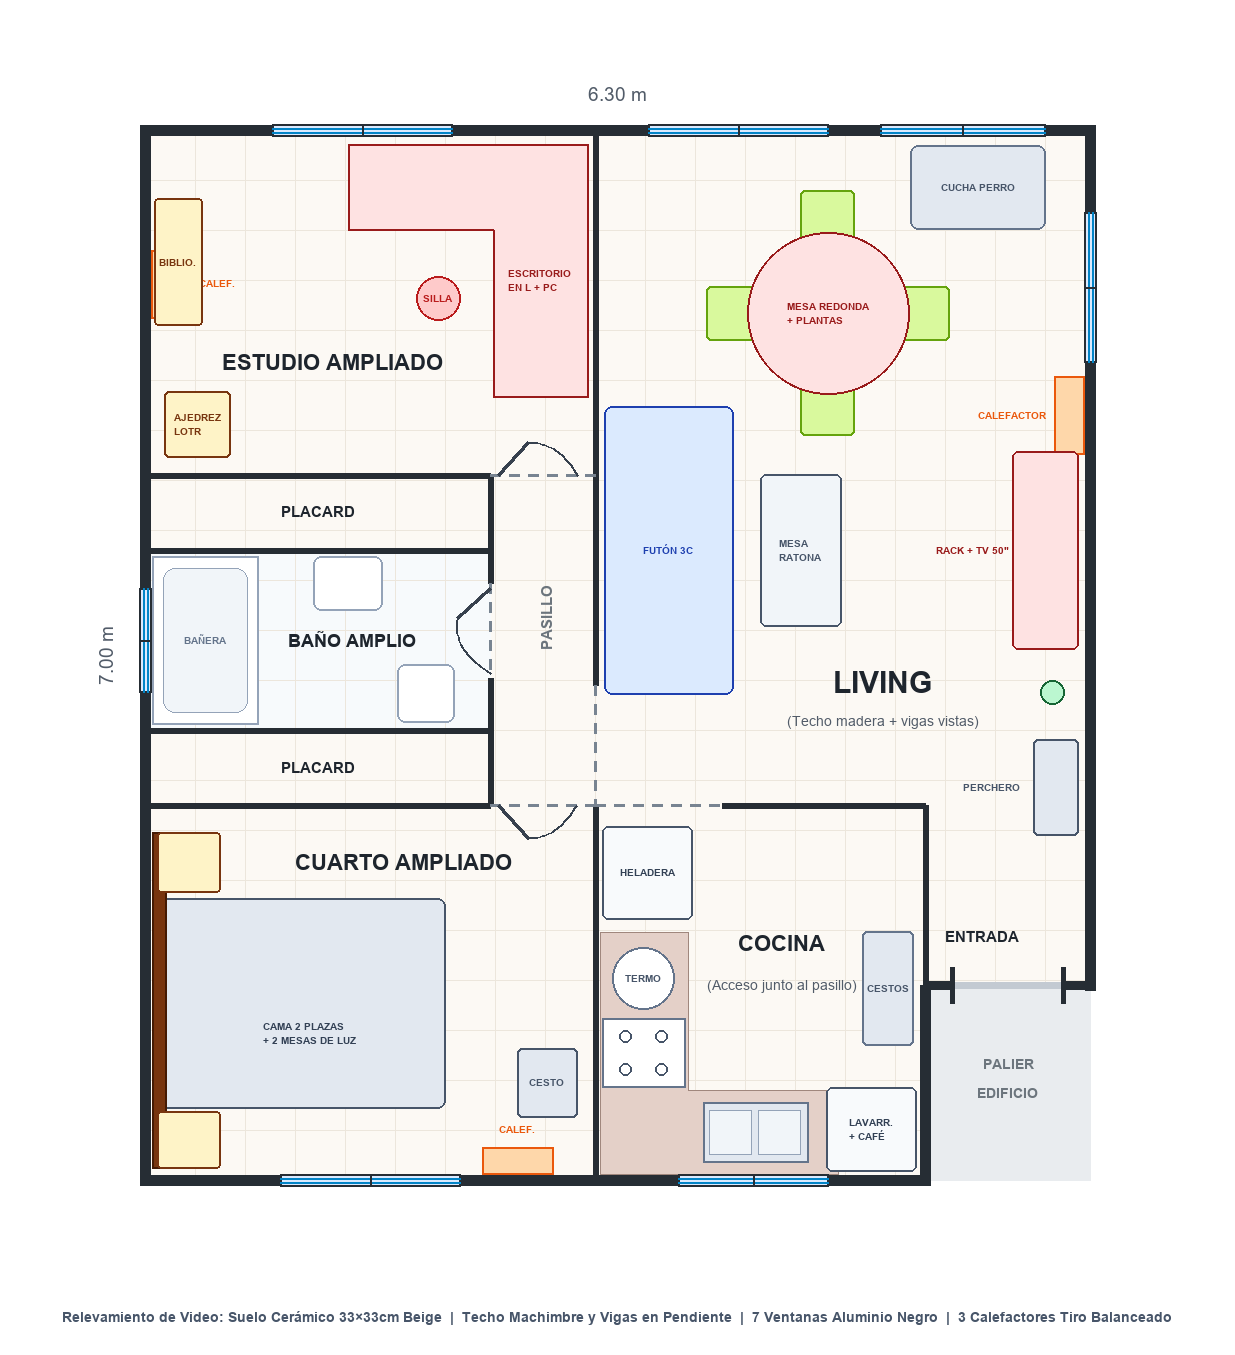
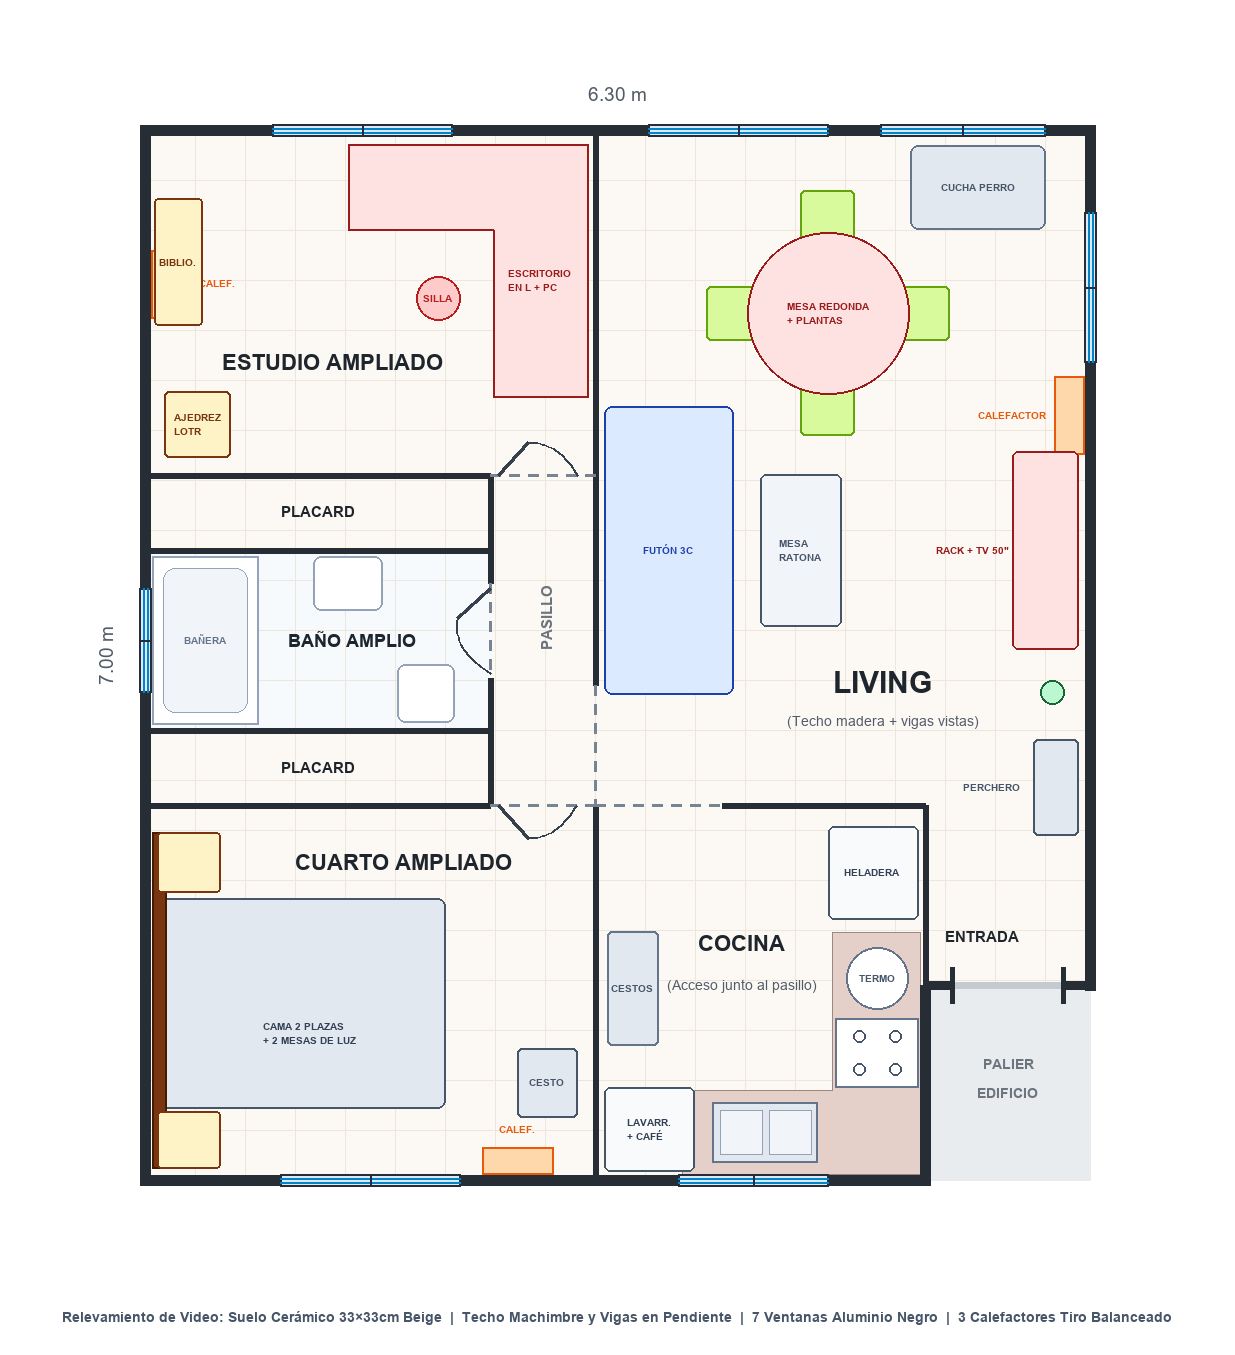
Mirror kitchen appliances and counter so fridge and L-counter sit on East wall and doorway stays clear

Changed region(s): [[0.4615, 0.6819, 0.7692, 0.8679], [0.6769, 0.6199, 0.7385, 0.6509], [0.4923, 0.6199, 0.5538, 0.6509]]

diff --git a/index.html b/index.html
@@ -1216,25 +1216,25 @@
         addBoxFixture(0.14, 0.34, 1.02, 0.14, 0.62, 0.45, 0x9ca3af);
         addBoxFixture(0.14, 0.66, 1.02, 0.16, 0.03, 0.47, 0xf97316);
 
-        // 2) COCINA: Mesada en "L" Granito Rosa + Termotanque Sherman + Cocina 4H + Bacha Doble
+        // 2) COCINA: Mesada en "L" Granito Rosa + Termotanque Sherman + Cocina 4H + Bacha Doble (sobre muro Este X=5.20 y Sur Y=7.00)
         // Bajo mesada de madera
-        addBoxFixture(3.32, 0.42, 6.68, 0.58, 0.84, 0.58, 0x9a5b32);
-        addBoxFixture(4.12, 0.42, 6.68, 1.02, 0.84, 0.58, 0x9a5b32);
+        addBoxFixture(4.88, 0.42, 6.68, 0.58, 0.84, 0.58, 0x9a5b32);
+        addBoxFixture(4.08, 0.42, 6.68, 1.02, 0.84, 0.58, 0x9a5b32);
         // Tapa de granito rosa del salto
-        addBoxFixture(3.32, 0.86, 5.62, 0.60, 0.04, 0.54, 0xd6b8ae);
-        addBoxFixture(3.84, 0.86, 6.68, 1.62, 0.04, 0.60, 0xd6b8ae);
-        // Termotanque cilíndrico blanco Sherman sobre mesada izquierda (X=3.32, Z=5.62)
+        addBoxFixture(4.88, 0.86, 5.62, 0.60, 0.04, 0.54, 0xd6b8ae);
+        addBoxFixture(4.36, 0.86, 6.68, 1.62, 0.04, 0.60, 0xd6b8ae);
+        // Termotanque cilíndrico blanco Sherman sobre mesada derecha (X=4.88, Z=5.62)
         const termoMesh = new THREE.Mesh(
             new THREE.CylinderGeometry(0.21, 0.21, 1.05, 24),
             new THREE.MeshStandardMaterial({ color: 0xf8fafc, roughness: 0.3 })
         );
-        termoMesh.position.set(3.32, 1.40, 5.62);
+        termoMesh.position.set(4.88, 1.40, 5.62);
         fixturesGroup.add(termoMesh);
-        // Cocina a gas blanca de 4 hornallas (X=3.32, Z=6.15)
-        addBoxFixture(3.32, 0.43, 6.15, 0.56, 0.86, 0.52, 0xffffff);
-        addBoxFixture(3.32, 0.87, 6.15, 0.52, 0.02, 0.48, 0x334155); // Rejilla hornallas
-        // Bacha doble de acero inoxidable bajo la ventana (X=4.07, Z=6.68)
-        addBoxFixture(4.07, 0.875, 6.68, 0.68, 0.02, 0.42, 0x94a3b8);
+        // Cocina a gas blanca de 4 hornallas sobre muro Este (X=4.88, Z=6.15)
+        addBoxFixture(4.88, 0.43, 6.15, 0.56, 0.86, 0.52, 0xffffff);
+        addBoxFixture(4.88, 0.87, 6.15, 0.52, 0.02, 0.48, 0x334155); // Rejilla hornallas
+        // Bacha doble de acero inoxidable bajo la ventana (X=4.13, Z=6.68)
+        addBoxFixture(4.13, 0.875, 6.68, 0.68, 0.02, 0.42, 0x94a3b8);
 
         // 3) BAÑO AMPLIO: Bañera en muro Oeste + Lavatorio Pedestal + Inodoro con mochila
         // Bañera (X=0.05..0.75, Z=2.84..3.96)
@@ -1725,27 +1725,27 @@
             addCurtainAssembly(6.30, 0.55, 6.30, 1.55, -0.12, 0, 0xd6ccc2);
 
             // ------------------------------------------------------------------------
-            // B) COCINA ([3.00, 4.50] a [5.20, 7.00])
+            // B) COCINA ([3.00, 4.50] a [5.20, 7.00]) - Heladera, Mesada, Alacenas y Cocina al Este (X=5.20); Lavarropas y Cestos al Oeste (X=3.00)
             // ------------------------------------------------------------------------
-            // 1. Heladera blanca con freezer superior (X=3.35, Z=4.95) + alacena bodega portabotellas arriba
-            addDecorBox(3.35, 0.86, 4.95, 0.60, 1.72, 0.62, 0xf8fafc, 0.25); // Heladera blanca con imanes
-            addDecorBox(3.35, 1.98, 4.95, 0.58, 0.44, 0.58, 0xd6ccc2, 0.5);  // Alacena y botellero sobre heladera
-            // 2. Alacenas superiores de melamina clara sobre la mesada izquierda + estante esquinero madera
-            addDecorBox(3.22, 1.85, 5.95, 0.34, 0.68, 1.35, 0xe5dec9, 0.45);
-            addDecorBox(3.22, 1.90, 6.76, 0.34, 0.62, 0.28, 0x9a5b32, 0.5);  // Estante esquinero abierto con plantas
-            // 3. Lavarropas automático blanco de carga frontal bajo mesada derecha (X=4.84, Z=6.66) + tapa de madera
-            addDecorBox(4.84, 0.42, 6.66, 0.58, 0.84, 0.56, 0xf8fafc, 0.3);  // Cuerpo lavarropas
-            const drum = addDecorCyl(4.84, 0.44, 6.37, 0.18, 0.18, 0.04, 0x334155, 0.2); // Ojo de buey frontal
+            // 1. Heladera blanca con freezer superior en esquina Noreste (X=4.85, Z=4.95, detrás del muro frontal de cocina) + alacena bodega portabotellas arriba
+            addDecorBox(4.85, 0.86, 4.95, 0.60, 1.72, 0.62, 0xf8fafc, 0.25); // Heladera blanca con imanes
+            addDecorBox(4.85, 1.98, 4.95, 0.58, 0.44, 0.58, 0xd6ccc2, 0.5);  // Alacena y botellero sobre heladera
+            // 2. Alacenas superiores de melamina clara sobre la mesada derecha (Muro Este X=5.20) + estante esquinero madera
+            addDecorBox(4.98, 1.85, 5.95, 0.34, 0.68, 1.35, 0xe5dec9, 0.45);
+            addDecorBox(4.98, 1.90, 6.76, 0.34, 0.62, 0.28, 0x9a5b32, 0.5);  // Estante esquinero abierto con plantas
+            // 3. Lavarropas automático blanco de carga frontal bajo mesada izquierda (esquina Suroeste X=3.36, Z=6.66) + tapa de madera
+            addDecorBox(3.36, 0.42, 6.66, 0.58, 0.84, 0.56, 0xf8fafc, 0.3);  // Cuerpo lavarropas
+            const drum = addDecorCyl(3.36, 0.44, 6.37, 0.18, 0.18, 0.04, 0x334155, 0.2); // Ojo de buey frontal
             drum.rotation.x = Math.PI / 2;
-            addDecorBox(4.84, 0.86, 6.66, 0.62, 0.04, 0.60, 0xb47b48, 0.45); // Mesada de madera sobre lavarropas
+            addDecorBox(3.36, 0.86, 6.66, 0.62, 0.04, 0.60, 0xb47b48, 0.45); // Mesada de madera sobre lavarropas
             // 4. Estación de café sobre el lavarropas: Cafetera expreso automática plateada/negra + pava eléctrica negra + escurridor negro
-            addDecorBox(4.78, 1.04, 6.68, 0.28, 0.32, 0.28, 0x334155, 0.3);  // Cafetera expreso con molinillo
-            addDecorCyl(5.04, 0.98, 6.68, 0.08, 0.09, 0.20, 0x0f172a, 0.3);  // Pava eléctrica negra
-            addDecorBox(4.42, 0.92, 6.68, 0.32, 0.08, 0.36, 0x1e293b, 0.4);  // Escurridor de platos negro
-            // 5. 2 Cestos de residuos rectangulares (gris y blanco con tapa) junto al muro Este de la cocina (X=4.94, Z=5.55 y 5.95) + portero eléctrico
-            addDecorBox(4.94, 0.26, 5.52, 0.32, 0.52, 0.36, 0x64748b, 0.5);  // Tacho gris
-            addDecorBox(4.94, 0.26, 5.92, 0.32, 0.52, 0.36, 0xf1f5f9, 0.5);  // Tacho blanco
-            addDecorBox(5.13, 1.42, 5.35, 0.05, 0.22, 0.10, 0xfef3c7, 0.4);  // Teléfono portero eléctrico en pared
+            addDecorBox(3.42, 1.04, 6.68, 0.28, 0.32, 0.28, 0x334155, 0.3);  // Cafetera expreso con molinillo
+            addDecorCyl(3.16, 0.98, 6.68, 0.08, 0.09, 0.20, 0x0f172a, 0.3);  // Pava eléctrica negra
+            addDecorBox(3.78, 0.92, 6.68, 0.32, 0.08, 0.36, 0x1e293b, 0.4);  // Escurridor de platos negro
+            // 5. 2 Cestos de residuos rectangulares (gris y blanco con tapa) junto al muro Oeste de la cocina (X=3.26, Z=5.52 y 5.92) + portero eléctrico
+            addDecorBox(3.26, 0.26, 5.52, 0.32, 0.52, 0.36, 0x64748b, 0.5);  // Tacho gris
+            addDecorBox(3.26, 0.26, 5.92, 0.32, 0.52, 0.36, 0xf1f5f9, 0.5);  // Tacho blanco
+            addDecorBox(3.07, 1.42, 5.35, 0.05, 0.22, 0.10, 0xfef3c7, 0.4);  // Teléfono portero eléctrico en pared Oeste
 
             // ------------------------------------------------------------------------
             // C) CUARTO AMPLIADO ([0.00, 4.50] a [3.00, 7.00]) - CAMA Y MESAS DE LUZ SOBRE MURO OESTE (X=0.00)
@@ -1839,8 +1839,8 @@
         // Living: [3.00, 0.00] a [6.30, 4.50]
         addPlanLabel(5.15, 2.10, "LIVING");
         // Cocina: [3.00, 4.50] a [5.20, 7.00]
-        addPlanLabel(4.22, 5.15, "COCINA");
-        addPlanLabel(4.22, 5.42, "(Acceso junto al pasillo)", "arch-label sub");
+        addPlanLabel(3.98, 5.15, "COCINA");
+        addPlanLabel(3.98, 5.42, "(Acceso junto al pasillo)", "arch-label sub");
         // Entrada: [5.20, 4.50] a [6.30, 5.70]
         addPlanLabel(5.65, 5.20, "ENTRADA", "arch-label sm");
         // Palier Edificio (Exterior): [5.20, 5.70] a [6.30, 7.00]
@@ -2092,7 +2092,7 @@
             mesa: { name: "Mesa Comedor", room: "Living", x: 5.00, z: 2.80, w: 1.40, d: 0.80, h: 0.76, color: 0xb46b38 },
             escritorio: { name: "Escritorio", room: "Estudio", x: 1.50, z: 0.60, w: 1.40, d: 0.65, h: 0.75, color: 0x1e293b },
             placard: { name: "Placard", room: "Placard", x: 0.85, z: 2.55, w: 1.60, d: 0.45, h: 2.30, color: 0xb46b38 },
-            heladera: { name: "Heladera", room: "Cocina", x: 3.45, z: 5.10, w: 0.60, d: 0.60, h: 1.70, color: 0x94a3b8 },
+            heladera: { name: "Heladera", room: "Cocina", x: 4.85, z: 4.95, w: 0.60, d: 0.60, h: 1.70, color: 0x94a3b8 },
             cubo: { name: "Mueble a Medida", room: "General", x: 5.00, z: 3.00, w: 1.00, d: 1.00, h: 0.80, color: 0x0284c7 }
         };
 
@@ -2122,8 +2122,8 @@
             { id: 'vid_perchero', name: 'Perchero + Zapatero Entrada', room: 'Entrada', x: 6.08, z: 4.38, y: 0.93, w: 0.30, d: 0.64, h: 1.86, rot: 0, color: 0x1e293b },
             { id: 'vid_mesa_red', name: 'Mesa Comedor Redonda + 4 Sillas', room: 'Living', x: 4.55, z: 1.22, y: 0.38, w: 1.10, d: 1.10, h: 0.76, rot: 0, color: 0x882915 },
             { id: 'vid_cucha_ne', name: 'Cucha Perro Esquina NE', room: 'Living', x: 5.55, z: 0.38, y: 0.05, w: 0.92, d: 0.62, h: 0.10, rot: 0, color: 0x94a3b8 },
-            { id: 'vid_heladera', name: 'Heladera c/ Freezer + Bodega', room: 'Cocina', x: 3.35, z: 4.95, y: 0.86, w: 0.60, d: 0.62, h: 1.72, rot: 0, color: 0xe2e8f0 },
-            { id: 'vid_lavarropas', name: 'Lavarropas + Estación Café', room: 'Cocina', x: 4.84, z: 6.66, y: 0.43, w: 0.60, d: 0.58, h: 0.86, rot: 0, color: 0xcbd5e1 },
+            { id: 'vid_heladera', name: 'Heladera c/ Freezer + Bodega', room: 'Cocina', x: 4.85, z: 4.95, y: 0.86, w: 0.60, d: 0.62, h: 1.72, rot: 0, color: 0xe2e8f0 },
+            { id: 'vid_lavarropas', name: 'Lavarropas + Estación Café', room: 'Cocina', x: 3.36, z: 6.66, y: 0.43, w: 0.60, d: 0.58, h: 0.86, rot: 0, color: 0xcbd5e1 },
             { id: 'vid_cama_2p', name: 'Cama 2 Plazas + Respaldo Nogal', room: 'Cuarto', x: 1.05, z: 5.80, y: 0.24, w: 1.90, d: 1.45, h: 0.48, rot: 0, color: 0x475569 },
             { id: 'vid_luz_n', name: 'Mesa de Luz Norte', room: 'Cuarto', x: 0.28, z: 4.84, y: 0.31, w: 0.42, d: 0.44, h: 0.62, rot: 0, color: 0x4a3222 },
             { id: 'vid_luz_s', name: 'Mesa de Luz Sur', room: 'Cuarto', x: 0.28, z: 6.72, y: 0.31, w: 0.42, d: 0.42, h: 0.62, rot: 0, color: 0x4a3222 },

diff --git a/generate_2d_plan.py b/generate_2d_plan.py
@@ -156,38 +156,38 @@ def main():
     # -------------------------------------------------------------------------
     f_tiny = load_font(12, bold=True)
 
-    # --- COCINA: Mesada en "L" de granito rosa + Bacha doble + Cocina 4H + Termo Sherman ---
-    # Tramo vertical mesada (X=3.00 a 3.60, Y=5.35 a 7.00) y tramo horizontal (X=3.00 a 4.65, Y=6.40 a 7.00)
+    # --- COCINA: Mesada en "L" de granito rosa + Bacha doble + Cocina 4H + Termo Sherman (sobre muro Este X=5.20 y Sur Y=7.00) ---
+    # Tramo vertical mesada (X=4.58 a 5.17, Y=5.35 a 6.96) y tramo horizontal (X=3.58 a 5.17, Y=6.40 a 6.96)
     granite_fill = (228, 208, 200)
     granite_border = (160, 135, 125)
     draw.polygon(
         [
-            px(3.03, 5.35),
-            px(3.62, 5.35),
-            px(3.62, 6.40),
-            px(4.62, 6.40),
-            px(4.62, 6.96),
-            px(3.03, 6.96),
+            px(4.58, 5.35),
+            px(5.17, 5.35),
+            px(5.17, 6.96),
+            px(3.58, 6.96),
+            px(3.58, 6.40),
+            px(4.58, 6.40),
         ],
         fill=granite_fill,
         outline=granite_border,
     )
-    # Termotanque Sherman (círculo blanco en X=3.32, Y=5.65)
-    tx, ty = px(3.32, 5.65)
+    # Termotanque Sherman (círculo blanco en X=4.88, Y=5.65)
+    tx, ty = px(4.88, 5.65)
     r_termo = int(0.21 * SCALE)
     draw.ellipse([tx - r_termo, ty - r_termo, tx + r_termo, ty + r_termo], fill=(255, 255, 255), outline=(100, 116, 139), width=2)
     draw.text((tx, ty), "TERMO", fill=(71, 85, 105), font=load_font(10, bold=True), anchor="mm")
 
-    # Cocina 4 hornallas (X=3.05 a 3.60, Y=5.92 a 6.38)
-    draw.rectangle([*px(3.05, 5.92), *px(3.60, 6.38)], fill=(255, 255, 255), outline=(100, 116, 139), width=2)
-    for bx, by in [(3.20, 6.04), (3.44, 6.04), (3.20, 6.26), (3.44, 6.26)]:
+    # Cocina 4 hornallas sobre muro Este (X=4.60 a 5.15, Y=5.92 a 6.38)
+    draw.rectangle([*px(4.60, 5.92), *px(5.15, 6.38)], fill=(255, 255, 255), outline=(100, 116, 139), width=2)
+    for bx, by in [(4.76, 6.04), (5.00, 6.04), (4.76, 6.26), (5.00, 6.26)]:
         cx_b, cy_b = px(bx, by)
         draw.ellipse([cx_b - 6, cy_b - 6, cx_b + 6, cy_b + 6], outline=(71, 85, 105), width=2)
 
-    # Bacha doble de acero inoxidable bajo ventana cocina (X=3.72 a 4.42, Y=6.48 a 6.88)
-    draw.rectangle([*px(3.72, 6.48), *px(4.42, 6.88)], fill=(226, 232, 240), outline=(100, 116, 139), width=2)
-    draw.rectangle([*px(3.76, 6.53), *px(4.04, 6.83)], fill=(241, 245, 249), outline=(148, 163, 184), width=1)
-    draw.rectangle([*px(4.09, 6.53), *px(4.37, 6.83)], fill=(241, 245, 249), outline=(148, 163, 184), width=1)
+    # Bacha doble de acero inoxidable bajo ventana cocina (X=3.78 a 4.48, Y=6.48 a 6.88)
+    draw.rectangle([*px(3.78, 6.48), *px(4.48, 6.88)], fill=(226, 232, 240), outline=(100, 116, 139), width=2)
+    draw.rectangle([*px(3.83, 6.53), *px(4.11, 6.83)], fill=(241, 245, 249), outline=(148, 163, 184), width=1)
+    draw.rectangle([*px(4.16, 6.53), *px(4.44, 6.83)], fill=(241, 245, 249), outline=(148, 163, 184), width=1)
 
     # --- BAÑO: Bañera (X=0.04..0.74, Y=2.84..3.96), Lavatorio (X=1.10..1.55, Y=2.84..3.22), Inodoro (X=1.65..2.05, Y=3.55..3.96) ---
     draw.rectangle([*px(0.05, 2.84), *px(0.75, 3.96)], fill=(255, 255, 255), outline=(148, 163, 184), width=2)
@@ -243,13 +243,13 @@ def main():
     draw.rounded_rectangle([*px(5.10, 0.10), *px(6.00, 0.66)], radius=8, fill=(226, 232, 240), outline=(100, 116, 139), width=2)
     draw.text(px(5.55, 0.38), "CUCHA PERRO", fill=(71, 85, 105), font=f_furn, anchor="mm")
 
-    # B) COCINA: Heladera con Freezer + Bodega (X=3.05..3.65, Y=4.64..5.26), Lavarropas + Estación Café (X=4.54..5.14, Y=6.38..6.94) y Cestos (X=4.78..5.12, Y=5.34..6.10)
-    draw.rounded_rectangle([*px(3.05, 4.64), *px(3.65, 5.26)], radius=6, fill=(248, 250, 252), outline=(71, 85, 105), width=2)
-    draw.text(px(3.35, 4.95), "HELADERA", fill=(51, 65, 85), font=f_furn, anchor="mm")
-    draw.rounded_rectangle([*px(4.54, 6.38), *px(5.14, 6.94)], radius=6, fill=(248, 250, 252), outline=(71, 85, 105), width=2)
-    draw.text(px(4.84, 6.66), "LAVARR.\n+ CAFÉ", fill=(51, 65, 85), font=f_furn, anchor="mm")
-    draw.rounded_rectangle([*px(4.78, 5.34), *px(5.12, 6.10)], radius=5, fill=(226, 232, 240), outline=(100, 116, 139), width=2)
-    draw.text(px(4.95, 5.72), "CESTOS", fill=(71, 85, 105), font=f_furn, anchor="mm")
+    # B) COCINA: Heladera con Freezer + Bodega al Este (X=4.55..5.15, Y=4.64..5.26), Lavarropas + Estación Café al Suroeste (X=3.06..3.66, Y=6.38..6.94) y Cestos al Oeste (X=3.08..3.42, Y=5.34..6.10)
+    draw.rounded_rectangle([*px(4.55, 4.64), *px(5.15, 5.26)], radius=6, fill=(248, 250, 252), outline=(71, 85, 105), width=2)
+    draw.text(px(4.85, 4.95), "HELADERA", fill=(51, 65, 85), font=f_furn, anchor="mm")
+    draw.rounded_rectangle([*px(3.06, 6.38), *px(3.66, 6.94)], radius=6, fill=(248, 250, 252), outline=(71, 85, 105), width=2)
+    draw.text(px(3.36, 6.66), "LAVARR.\n+ CAFÉ", fill=(51, 65, 85), font=f_furn, anchor="mm")
+    draw.rounded_rectangle([*px(3.08, 5.34), *px(3.42, 6.10)], radius=5, fill=(226, 232, 240), outline=(100, 116, 139), width=2)
+    draw.text(px(3.25, 5.72), "CESTOS", fill=(71, 85, 105), font=f_furn, anchor="mm")
 
     # C) CUARTO AMPLIADO: Cama 2 Plazas (X=0.10..2.00, Y=5.12..6.52) + Respaldo Ancho Nogal y 2 Mesas de Luz sobre pared Oeste (X=0.00) + Cesto Ropa al Este
     draw.rounded_rectangle([*px(0.10, 5.12), *px(2.00, 6.52)], radius=8, fill=(226, 232, 240), outline=(71, 85, 105), width=2)
@@ -368,8 +368,8 @@ def main():
     draw.text(px(1.72, 4.88), "CUARTO AMPLIADO", fill=TEXT_COLOR, font=f_room, anchor="mm")
     draw.text(px(4.92, 3.68), "LIVING", fill=TEXT_COLOR, font=f_living, anchor="mm")
     draw.text(px(4.92, 3.94), "(Techo madera + vigas vistas)", fill=SUB_COLOR, font=f_sub, anchor="mm")
-    draw.text(px(4.25, 5.42), "COCINA", fill=TEXT_COLOR, font=f_room, anchor="mm")
-    draw.text(px(4.25, 5.70), "(Acceso junto al pasillo)", fill=SUB_COLOR, font=f_sub, anchor="mm")
+    draw.text(px(3.98, 5.42), "COCINA", fill=TEXT_COLOR, font=f_room, anchor="mm")
+    draw.text(px(3.98, 5.70), "(Acceso junto al pasillo)", fill=SUB_COLOR, font=f_sub, anchor="mm")
     draw.text(px(5.58, 5.38), "ENTRADA", fill=TEXT_COLOR, font=f_sm, anchor="mm")
     draw.text(px(5.75, 6.23), "PALIER", fill=PALIER_TEXT, font=f_palier, anchor="mm")
     draw.text(px(5.75, 6.42), "EDIFICIO", fill=PALIER_TEXT, font=f_palier, anchor="mm")

diff --git a/generate_model.py b/generate_model.py
@@ -242,16 +242,16 @@ def build_apartment():
     b.add_box(0.06, 0.05, 0.80, 0.22, 0.65, 1.25)  # Calefactor Estudio
 
     b.set_group("04_Equipamiento_Cocina_Bano", "Kitchen_Granite")
-    b.add_box(3.05, 0.00, 5.35, 3.62, 0.86, 6.94)  # Mesada tramo izquierdo
-    b.add_box(3.62, 0.00, 6.40, 4.62, 0.86, 6.94)  # Mesada tramo sur bajo ventana
+    b.add_box(4.58, 0.00, 5.35, 5.15, 0.86, 6.94)  # Mesada tramo derecho (sobre muro Este)
+    b.add_box(3.58, 0.00, 6.40, 4.58, 0.86, 6.94)  # Mesada tramo sur bajo ventana
 
     b.set_group("04B_Sanitarios_Y_Termo", "Sanitary_White")
-    b.add_box(3.12, 0.86, 5.42, 3.52, 1.90, 5.82)  # Termotanque Sherman
+    b.add_box(4.68, 0.86, 5.42, 5.08, 1.90, 5.82)  # Termotanque Sherman sobre mesada derecha
     b.add_box(0.05, 0.00, 2.84, 0.75, 0.48, 3.96)  # Bañera
     b.add_box(1.12, 0.00, 2.84, 1.58, 0.82, 3.20)  # Lavatorio
     b.add_box(1.68, 0.00, 3.56, 2.06, 0.75, 3.95)  # Inodoro
-    b.add_box(3.05, 0.00, 4.64, 3.65, 1.72, 5.26)  # Heladera con freezer en Cocina
-    b.add_box(4.55, 0.00, 6.38, 5.13, 0.85, 6.94)  # Lavarropas carga frontal en Cocina
+    b.add_box(4.55, 0.00, 4.64, 5.15, 1.72, 5.26)  # Heladera con freezer en esquina Noreste de Cocina
+    b.add_box(3.07, 0.00, 6.38, 3.65, 0.85, 6.94)  # Lavarropas carga frontal en esquina Suroeste de Cocina
 
     # 5. MUEBLES Y DECORACIÓN EXTRAÍDOS DEL SEGUNDO VIDEO
     b.set_group("05_Muebles_Living_Comedor", "Furniture_Sofa_Blue")
